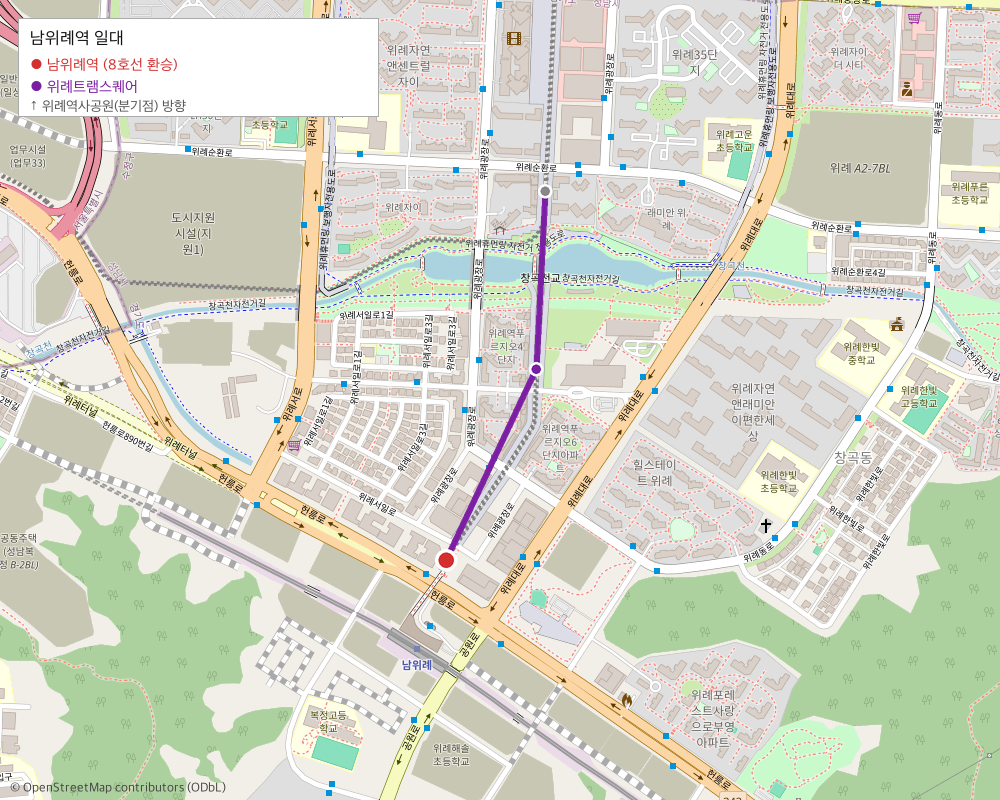
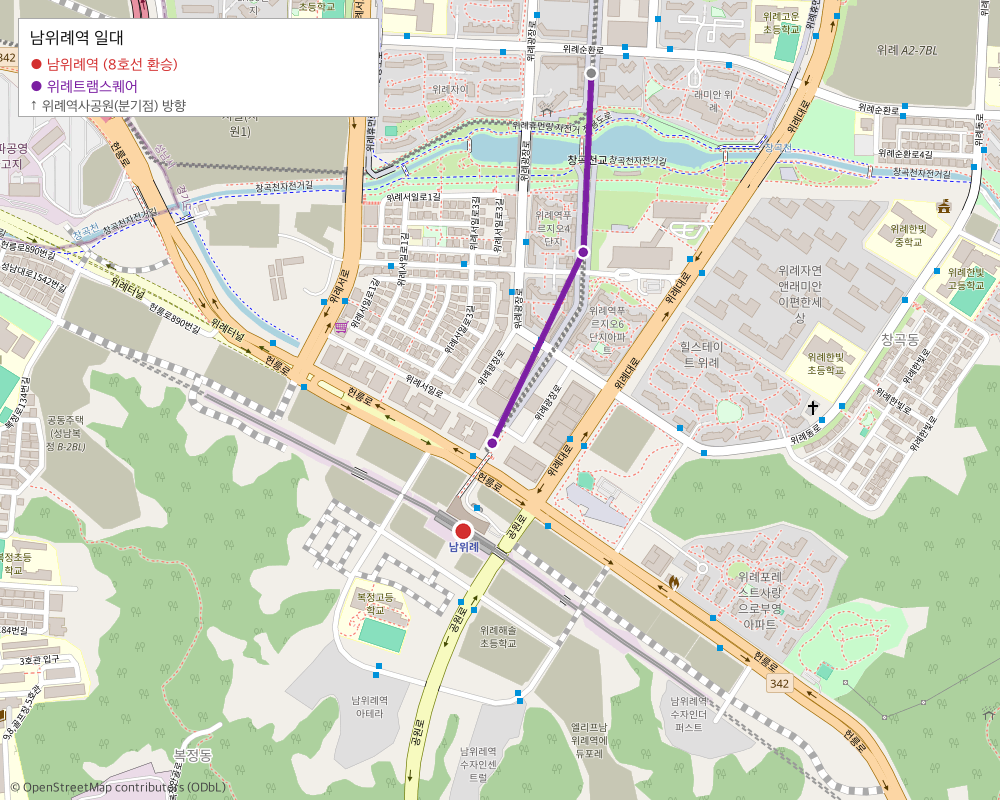
Fix 남위례역 transfer marker to actual 8호선 station position
트램 정류장(37.4643)과 8호선 역사(37.4628) 위치가 170m 상이하므로
환승 마커를 OSM railway=station 확정 좌표로 분리 표시.

diff --git a/scripts/make_wirye_maps.py b/scripts/make_wirye_maps.py
@@ -160,18 +160,23 @@ print("   저장 완료")
 # ═══════════════════════════════════════════════
 print("5/5 남위례역 근접…")
 m = StaticMap(1000, 800, url_template=TILE)
-_yeoksa = p(STOPS[7][0], STOPS[7][1])
-_tram_sq = p(STOPS[8][0], STOPS[8][1])
-_namwirye = p(STOPS[9][0], STOPS[9][1])
-m.add_line(Line([_yeoksa, _tram_sq, _namwirye], BRANCH_C, 6))
-m.add_marker(CircleMarker(_namwirye,"white",22))
-m.add_marker(CircleMarker(_namwirye,XFER_C,15))
+_yeoksa   = p(STOPS[7][0], STOPS[7][1])
+_tram_sq  = p(STOPS[8][0], STOPS[8][1])
+_namwirye_tram  = p(STOPS[9][0], STOPS[9][1])
+_namwirye_subwy = p(37.4627715, 127.1392162)  # 8호선 남위례역 OSM 확정
+m.add_line(Line([_yeoksa, _tram_sq, _namwirye_tram], BRANCH_C, 6))
+# 8호선 역사 (환승 기준점)
+m.add_marker(CircleMarker(_namwirye_subwy,"white",22))
+m.add_marker(CircleMarker(_namwirye_subwy,XFER_C,15))
+# 트램 종착 정류장
+m.add_marker(CircleMarker(_namwirye_tram,"white",14))
+m.add_marker(CircleMarker(_namwirye_tram,BRANCH_C,9))
 m.add_marker(CircleMarker(_tram_sq,"white",14))
 m.add_marker(CircleMarker(_tram_sq,BRANCH_C,9))
 m.add_marker(CircleMarker(_yeoksa,"white",14))
 m.add_marker(CircleMarker(_yeoksa,"#888",9))
 
-img = m.render(zoom=16, center=[127.141, 37.467])
+img = m.render(zoom=16, center=[127.140, 37.465])
 draw = ImageDraw.Draw(img)
 bx,by = 18,18
 draw.rectangle([bx,by,bx+360,by+98], fill=(255,255,255,220), outline="#AAA")
